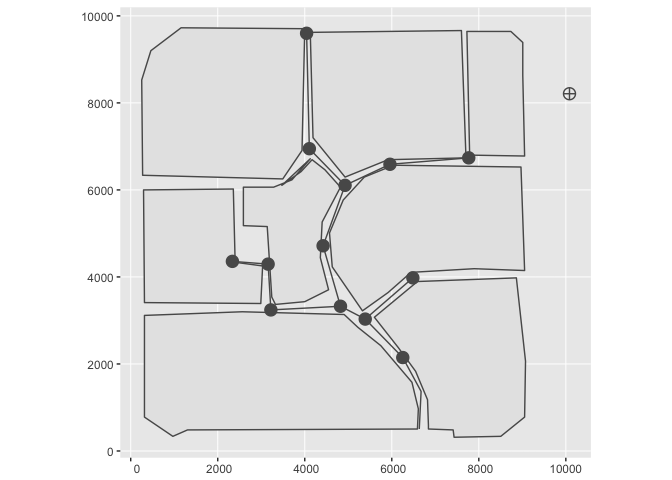
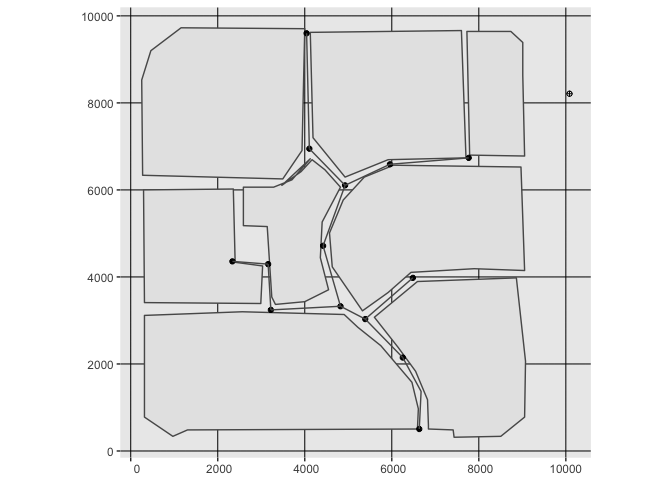
smaller fixes, outfalls_to_sf

diff --git a/README.md b/README.md
@@ -86,17 +86,16 @@ summary(inp)
 # for example, inspect section subcatchments
 inp$subcatchments
 #> # A tibble: 8 x 9
-#>    Name `Rain Gage` Outlet  Area Perc_Imperv Width Perc_Slope CurbLen
-#>   <chr>       <chr>  <chr> <int>       <int> <int>      <dbl>   <int>
-#> 1     1         RG1      9    10          50   500       0.01       0
-#> 2     2         RG1     10    10          50   500       0.01       0
-#> 3     3         RG1     13     5          50   500       0.01       0
-#> 4     4         RG1     22     5          50   500       0.01       0
-#> 5     5         RG1     15    15          50   500       0.01       0
-#> 6     6         RG1     23    12          10   500       0.01       0
-#> 7     7         RG1     19     4          10   500       0.01       0
-#> 8     8         RG1     18    10          10   500       0.01       0
-#> # ... with 1 more variables: Snowpack <lgl>
+#>   Name  `Rain Gage` Outlet  Area Perc_Imperv Width Perc_Slope CurbL… Snow…
+#>   <chr> <chr>       <chr>  <int>       <int> <int>      <dbl>  <int> <lgl>
+#> 1 1     RG1         9         10          50   500     0.0100      0 NA   
+#> 2 2     RG1         10        10          50   500     0.0100      0 NA   
+#> 3 3     RG1         13         5          50   500     0.0100      0 NA   
+#> 4 4     RG1         22         5          50   500     0.0100      0 NA   
+#> 5 5     RG1         15        15          50   500     0.0100      0 NA   
+#> 6 6     RG1         23        12          10   500     0.0100      0 NA   
+#> 7 7     RG1         19         4          10   500     0.0100      0 NA   
+#> 8 8     RG1         18        10          10   500     0.0100      0 NA
 
 # run a simulation
 # the result is a named list of paths, directing
@@ -187,17 +186,14 @@ summary(report)
 # convenient access to summaries through list structure
 report$subcatchment_runoff_summary
 #> # A tibble: 6 x 9
-#>   Subcatchment Total_Precip Total_Runon Total_Evap Total_Infil
-#>          <chr>        <dbl>       <dbl>      <dbl>       <dbl>
-#> 1            3         2.65           0          0        1.16
-#> 2            4         2.65           0          0        1.16
-#> 3            5         2.65           0          0        1.24
-#> 4            6         2.65           0          0        2.27
-#> 5            7         2.65           0          0        2.14
-#> 6            8         2.65           0          0        2.25
-#> # ... with 4 more variables: Total_Runoff_Depth <dbl>,
-#> #   Total_Runoff_Volume <dbl>, Total_Peak_Runoff <dbl>,
-#> #   Total_Runoff_Coeff <dbl>
+#>   Subcatchment Total_Precip Total… Total… Total… Total… Total… Tota… Tota…
+#>   <chr>               <dbl>  <dbl>  <dbl>  <dbl>  <dbl>  <dbl> <dbl> <dbl>
+#> 1 3                    2.65      0      0   1.16  1.49  0.200  2.45  0.561
+#> 2 4                    2.65      0      0   1.16  1.49  0.200  2.45  0.561
+#> 3 5                    2.65      0      0   1.24  1.40  0.570  6.56  0.528
+#> 4 6                    2.65      0      0   2.27  0.380 0.120  1.50  0.143
+#> 5 7                    2.65      0      0   2.14  0.510 0.0600 0.790 0.194
+#> 6 8                    2.65      0      0   2.25  0.400 0.110  1.33  0.150
 ```
 
 ### Visualize the model structure
@@ -208,11 +204,11 @@ report$subcatchment_runoff_summary
 # model, i.e. it plots subcatchments, junctions, links and raingages
 library(ggplot2) # (>= 2.2.1.9000)
 library(tidyverse)
-#> ── Attaching packages ──────────────────────────────────────────────────────────────────────────────────────────────────────────────────── tidyverse 1.2.1 ──
-#> ✔ tibble  1.3.4     ✔ dplyr   0.7.4
+#> ── Attaching packages ────────────────────────────────────────────────────────────────────────────────────────────── tidyverse 1.2.1 ──
+#> ✔ tibble  1.4.1     ✔ dplyr   0.7.4
 #> ✔ tidyr   0.7.2     ✔ stringr 1.2.0
 #> ✔ readr   1.1.1     ✔ forcats 0.2.0
-#> ── Conflicts ─────────────────────────────────────────────────────────────────────────────────────────────────────────────────────── tidyverse_conflicts() ──
+#> ── Conflicts ───────────────────────────────────────────────────────────────────────────────────────────────── tidyverse_conflicts() ──
 #> ✖ dplyr::filter() masks stats::filter()
 #> ✖ dplyr::lag()    masks stats::lag()
 library(sf)
@@ -320,11 +316,12 @@ from the Interface Guide of
 
 To cite package ‘swmmr’ in publications use:
 
-Dominik Leutnant (2017). swmmr: R Interface for US EPA’s SWMM. R package
-version 0.7.2.9000. <https://github.com/dleutnant/swmmr>
+Dominik Leutnant and Anneke Doering (2018). swmmr: R Interface for US
+EPA’s SWMM. R package version 0.7.2.9000.
+<https://github.com/dleutnant/swmmr>
 
 A BibTeX entry for LaTeX users is
 
 @Manual{, title = {swmmr: R Interface for US EPA’s SWMM}, author =
-{Dominik Leutnant}, year = {2017}, note = {R package version
-0.7.2.9000}, url = {<https://github.com/dleutnant/swmmr>}, }
+{Dominik Leutnant and Anneke Doering}, year = {2018}, note = {R package
+version 0.7.2.9000}, url = {<https://github.com/dleutnant/swmmr>}, }

diff --git a/NEWS.md b/NEWS.md
@@ -10,6 +10,8 @@
 
 * New functions to plot swmm objects from `*.inp` files.
 
+* Convert swmm objects to simple features (sf).
+
 * `read_inp` returns now an object of class `inp`.
 
 ## Bug fixes
